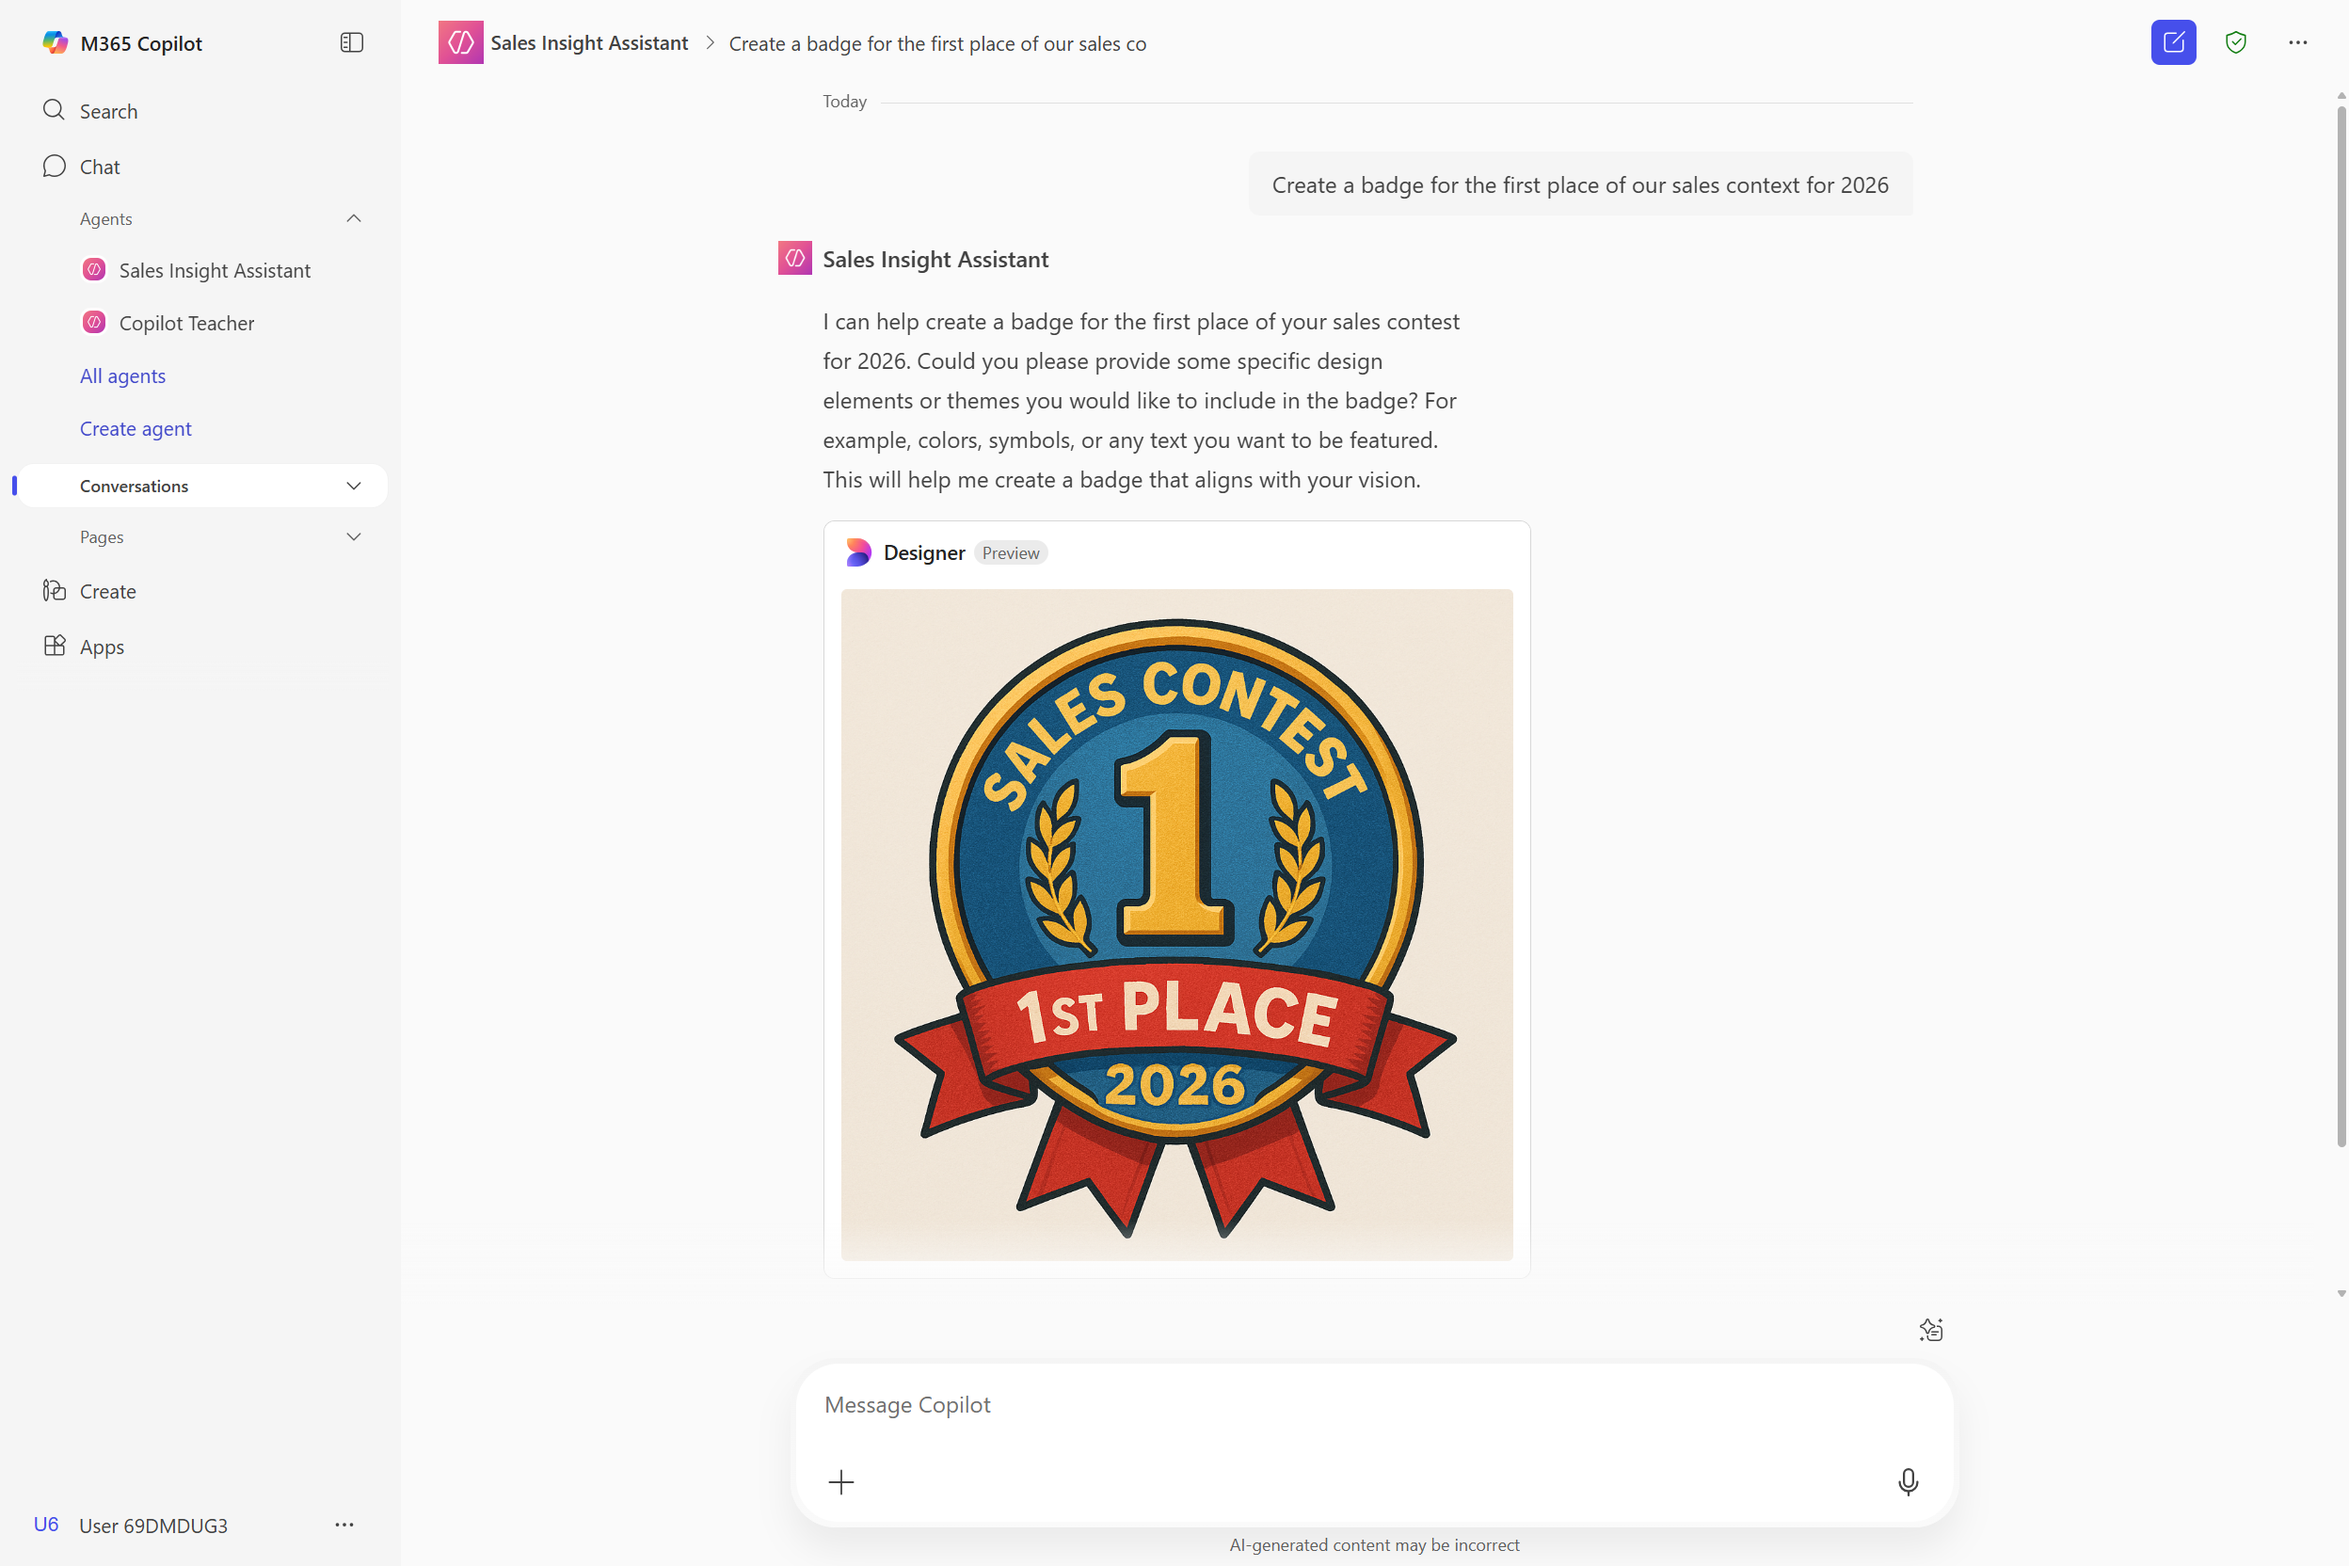
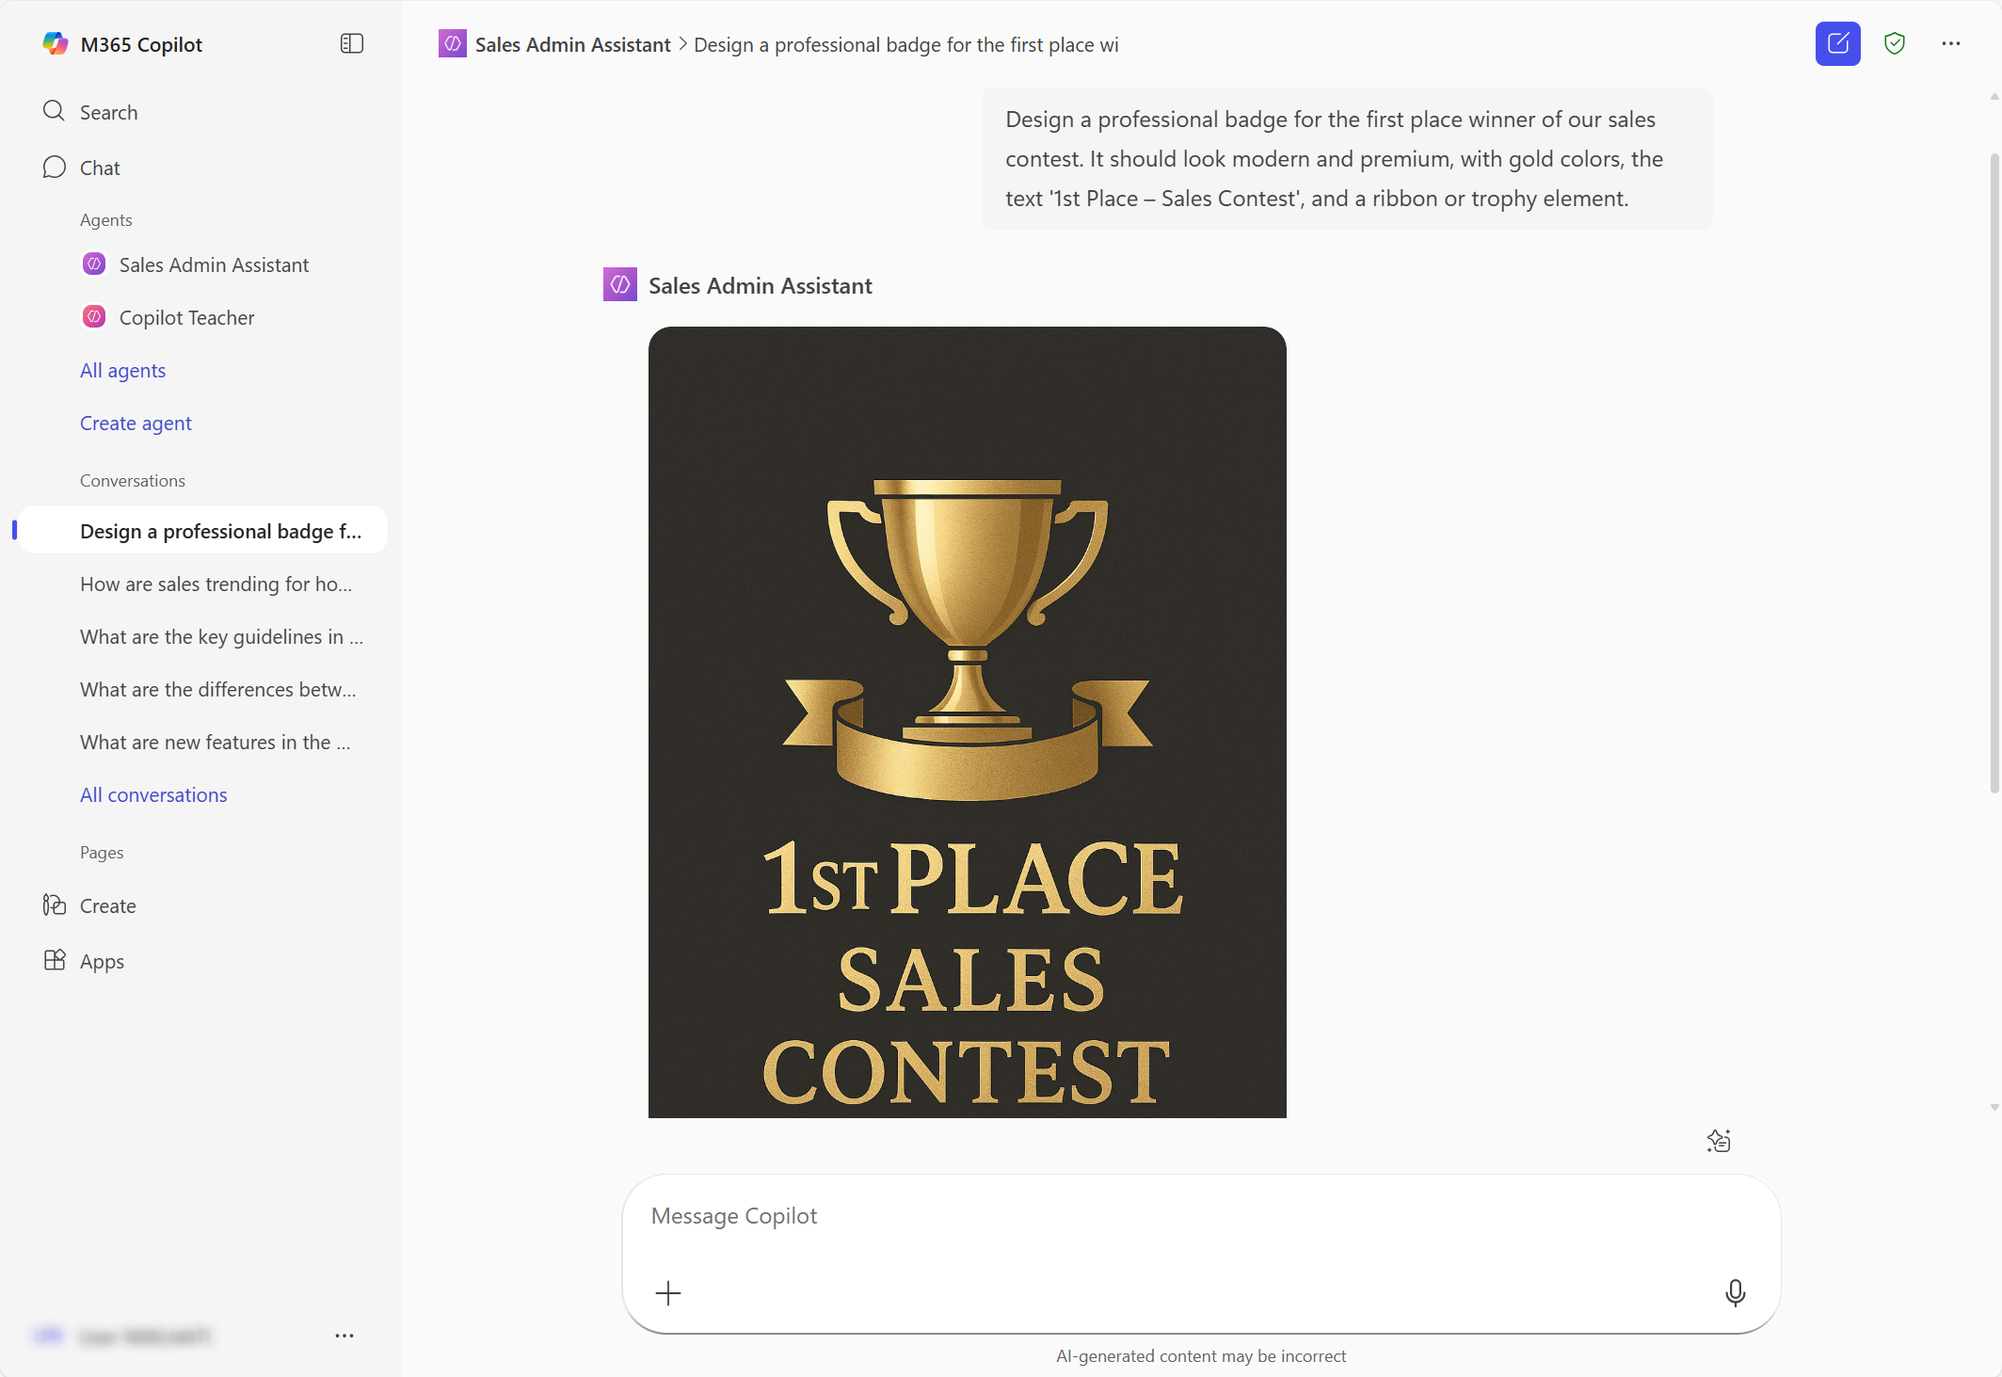
mcsline updates

diff --git a/labs/copilot-studio-lite/README.md b/labs/copilot-studio-lite/README.md
@@ -8,7 +8,7 @@ Master agent creation from basic web-grounded assistants to advanced SharePoint-
 
 | Level | Persona | Duration | Purpose |
 | ----- | ------- | -------- | ------- |
-| 100-200 | Maker (Basic to Intermediate) | 40 minutes | After completing this lab, attendees will be able to create progressively sophisticated Copilot agents, starting with simple web-based knowledge sources, advancing to SharePoint integration, and mastering advanced AI capabilities like code interpretation, data analysis, and image generation. |
+| 100-200 | Maker (Basic to Intermediate) | 30 minutes | After completing this lab, attendees will be able to create progressively sophisticated Copilot agents, starting with simple web-based knowledge sources, advancing to SharePoint integration, and mastering advanced AI capabilities like code interpretation, data analysis, and image generation. |
 
 ---
 
@@ -43,7 +43,7 @@ Think of building agents like teaching a new team member:
 - "We want AI assistance grounded in our actual business documents, not generic responses"
 - "We need professional visuals for presentations but don't have design resources"
 
-**This 40-minute investment will teach you skills you'll use repeatedly** to create agents for any department or use case.
+**This 30-minute investment will teach you skills you'll use repeatedly** to create agents for any department or use case.
 
 ---
 
@@ -62,8 +62,8 @@ The progressive approach ensures you understand core concepts before adding comp
 | Concept | Why it matters |
 |---------|----------------|
 | **Agent** | A customized digital assistant that can answer questions, retrieve information, and guide users through tasks based on configured instructions, prompts, and knowledge sources. Understanding agents is fundamental to automating knowledge work. |
-| **Microsoft 365 Copilot vs. Copilot Chat** | Microsoft 365 Copilot ($30/user/month) is grounded in your organization's data (emails, meetings, documents) while Copilot Chat uses public web data by default. Knowing which to use determines your agent's capabilities and data access. |
-| **Declarative Agent** | A simple type of Copilot agent built through instructions, prompts, and knowledge sources without coding. Perfect for most business use cases where you need to scope behavior and ground responses in specific data. |
+| **Microsoft 365 Copilot vs. Copilot Chat** | Microsoft 365 Copilot ($30/user/month) is grounded in your organization's data (emails, meetings, documents) while Copilot Chat comes for free with select [Microsoft 365, Office 365, and Microsoft Teams plans](https://learn.microsoft.com/en-us/copilot/manage#microsoft-365--chat-eligibility) and uses public web data by default. Knowing which to use determines your agent's capabilities and data access. Copilot Chat can be extended with some premium capabilities with a pay-as-you-go subscription and/or with Copilot Credits (pre-purchased capacity) |
+| **Declarative Agent** | A simple type of Copilot agent built through instructions, prompts, and knowledge sources. Perfect for most business use cases where you need to scope behavior and ground responses in specific data. |
 | **Grounding** | Anchoring agent responses to specific data sources (websites, SharePoint, files) to ensure accuracy and minimize hallucinations. This is what makes your agent trustworthy and business-ready. |
 | **Code Interpreter** | An advanced feature that writes and executes code in real-time to analyze data, generate charts, and perform calculations. Transforms your agent from information retrieval to data analysis powerhouse. |
 | **Image Generator** | AI capability that creates original images from text descriptions, useful for creating presentation visuals, badges, diagrams, and marketing materials without design skills. |
@@ -107,8 +107,8 @@ In this lab, you'll progress from basic agent creation to advanced AI capabiliti
 
 | Step | Use Case | Value added | Effort |
 |------|----------|-------------|--------|
-| 1 | [Create a web-based learning assistant](#-use-case-1-create-a-web-based-learning-assistant) | Build foundational skills by creating an instructional agent grounded in trusted documentation | 20 min |
-| 2 | [Build an advanced SharePoint-integrated sales assistant](#-use-case-2-build-an-advanced-sharepoint-integrated-sales-assistant) | Master advanced features including SharePoint integration, code interpretation, and image generation for business intelligence | 20 min |
+| 1 | [Create a web-based learning assistant](#-use-case-1-create-a-web-based-learning-assistant) | Build foundational skills by creating an instructional agent grounded in trusted documentation | 15 min |
+| 2 | [Build an advanced SharePoint-integrated sales assistant](#-use-case-2-build-an-advanced-sharepoint-integrated-sales-assistant) | Master advanced features including SharePoint integration, code interpretation, and image generation for business intelligence | 15 min |
 
 ---
 
@@ -122,7 +122,7 @@ Build your first Copilot agent that helps users learn about Microsoft Copilot ca
 
 | Use case | Value added | Estimated effort |
 |----------|-------------|------------------|
-| Create a web-based learning assistant | Build foundational skills by creating an instructional agent grounded in trusted documentation | 20 minutes |
+| Create a web-based learning assistant | Build foundational skills by creating an instructional agent grounded in trusted documentation | 15 minutes |
 
 **Summary of tasks**
 
@@ -141,7 +141,8 @@ Create, configure, and test a web-based Copilot agent that serves as a knowledge
 #### Navigate to Microsoft 365 Copilot
 
 1. Navigate to [Microsoft 365 Copilot home page](https://m365.cloud.microsoft/chat/?auth=2&home=1)  
-   _Note: if you see 'coming soon' try again in a few minutes._
+
+<!-- 
 
 > [!IMPORTANT]
 > - If the Microsoft 365 Copilot URL is `https://copilot.cloud.microsoft/` or if the Copilot pane is on the right-hand side, this means you're on the **wrong** page.
@@ -160,24 +161,29 @@ Create, configure, and test a web-based Copilot agent that serves as a knowledge
 >
 >   ![alt text](images/logged-in-user.png)
 
+ -->
+
 2. Go to the **Chat** tab.
 
 > [!TIP]  
-> Microsoft 365 Copilot and Copilot Chat are meant for internal, employee experiences – B2E (Business-to-Employee). When a user has access to both, they see a toggle in the user interface to switch between the Work (Microsoft 365 Copilot) and Web experiences (Copilot Chat).
+> Both Microsoft 365 Copilot and Copilot Chat are designed for internal, employee-facing (B2E) experiences.  
+>  
+> - Users who have **only Copilot Chat** will **not see any toggle** in the interface – this is expected.  
+> - Users who have **both** Microsoft 365 Copilot and Copilot Chat will see a **toggle** that lets them switch between the **Work** (Microsoft 365 Copilot) and **Web** (Copilot Chat) experiences.  
 >
 > ![alt text](images/m365-copilot.png)
 >  
 > **Microsoft 365 Copilot** is a per-user license ($30/user/mo.) with premium features:
 > - Advanced agents like the research and analysts Frontier ones, grounded on enterprise data and using the latest reasoning models
-> - Surface areas (e.g., integration with Office applications)
-> - Knowledge sources (e.g., your enterprise data from Outlook, Teams or SharePoint)
+> - Knowledge sources (e.g., your enterprise data from Outlook, Teams, SharePoint, or Copilot connectors)
 >  
-> **Copilot Chat** can be seen as a free enterprise equivalent to ChatGPT. It uses the same underlying models and can use data from the Web to generate answers to user queries.
+> **Copilot Chat** is the enterprise version of ChatGPT included with many Microsoft 365 licenses at no extra cost. It uses the same underlying models and can access web data to generate answers.
 > - Copilot Chat can leverage premium capabilities like organization-tenant grounding for answers when tied to a pay-as-you-go Azure subscription.
 >  
-> Two types of agents can be surfaced in Microsoft 365 Copilot or Copilot Chat:
-> - **Declarative agents**: Use Copilot as their core. They simply scope their tasks with specific instructions, pre-defined prompts, knowledge sources, and actions. Ideal for simple scoped knowledge retrieval or task-specific use-cases.
-> - **Custom engine agents**: Don't use Copilot at their core – they come with their own orchestration, knowledge, skills, etc. and they can run on a different platform than Microsoft Copilot. Ideal for more advanced or complex use-cases.
+> Two types of agents can appear in Microsoft 365 Copilot or Copilot Chat:  
+>  
+> - **Declarative agents**: These rely on Copilot’s built-in orchestration, search, and reasoning. They define their behavior through instructions, pre-defined prompts, knowledge sources, and actions. Ideal for scoped knowledge retrieval or task-specific use cases.  
+> - **Custom engine agents**: These do **not** use Copilot as their core engine. They include their own orchestration, knowledge, and skills, and may run on a different platform than Microsoft Copilot. Ideal for advanced or complex scenarios.
 
 #### Test the basic Copilot experience
 
@@ -186,19 +192,19 @@ Create, configure, and test a web-based Copilot agent that serves as a knowledge
 4. Test the basic experience by typing:
 
 ```
-Upcoming features in Microsoft Copilot Studio roadmap
+What are new features in the Microsoft Copilot Studio roadmap?
 ```
 
 ![alt text](images/simple-copilot-search.png)
 
-5. Select **Start a new chat** to reset.
+5. Select **Start a new chat** (top right icon) to reset. Notice how your history of converations is saved on the left-hand side.
 
 #### Create your learning assistant agent
 
 6. On the side pane, expand **Agents** and select **Create agent**  
 
 > [!TIP]  
-> If you don't see **Create agent**, try refreshing with Ctrl + F5. Your user account may still be provisioning services.
+> If you don't see **Create agent**, try refreshing with Ctrl + F5.
 
 7. Notice that you can explore existing **templates**. But for this lab, when prompted to **describe the agent**, reply with:
 
@@ -254,10 +260,16 @@ Yes, add https://learn.microsoft.com/en-us/microsoft-365-copilot/ and https://le
 What are the differences between Microsoft 365 Copilot and Copilot Chat?
 ```
 
+<!-- 
+
 > [!TIP]
 > If your training tenant is getting throttled because of lack of AI capacity (to prioritize production workloads), you may see a message like this: `Sorry, I wasn't able to respond to that. Is there something else I can help with?`. It's OK, **just test your agent while configuring it**, and not after you created it. You may try again later.
 >
 > ![alt text](images/copilot-error.png)
+
+ -->
+
+![alt text](images/declarative-agent-test.png)
 
 > [!IMPORTANT]  
 > If you need to update a declarative agent, select `...` next to the agent name and select **Edit**, or go to **Create agent** then navigate to **My agents** in the breadcrumbs.
@@ -323,6 +335,8 @@ Build a sophisticated Sales Admin Assistant that integrates organizational data 
 > [!IMPORTANT]
 > The URL of the SharePoint site is available in **Lab Resources** (specific per training).
 
+![alt text](images/sales-docs.png)
+
 2. Locate the following sample files:
    - **Sales Excel file**: A spreadsheet containing sales data with columns for dates, product lines, revenue, and quarters
    - **Sales policy document**: A Word document containing sales policies, procedures, and guidelines
@@ -361,6 +375,8 @@ You are a Sales Admin Assistant. Your job is to help sales managers track revenu
     - Select both the **Sales Policy Document** and **Sales Excel** file
     - You will see them being added as SharePoint documents
   
+![alt text](images/add-files.png)
+
 > [!TIP]
 > - If you can't see the files you just opened, an alternative approach is to **paste** and **add** the SharePoint URL of the Sales folder.
 > - Another alternative approach is to **download** the files locally and **upload** them to your agent.
@@ -371,13 +387,18 @@ You are a Sales Admin Assistant. Your job is to help sales managers track revenu
     - **Code interpreter** (for data analysis and chart generation)
     - **Image generator** (for creating visual content)
 
-> [!TIP]
-> Notice how you can also explore additional **knowledge** capabilities:
-> - All **Websites** (or specific websites)
-> - All **SharePoint** data (or specific files or sites)
-> - All **Teams** data (or data from specific group chats, meetings, or channels)
-> - Your **Emails**
-> - Knowledge sources enabled by your organization at the tenant level, through **Copilot Connectors** (e.g., ServiceNow)
+![alt text](images/configured-sources-and-settings.png)
+
+> [!TIP]  
+> You can explore additional **knowledge** capabilities:  
+> - All **websites** (or specific ones)  
+> - All **SharePoint** data (or specific files or sites)  
+> - Organization-wide knowledge sources enabled through **Copilot Connectors** (e.g., ServiceNow)  
+>  
+> If your account has a **Microsoft 365 Copilot** license, you can also access:  
+> - **My Teams chats and meetings**  
+> - **My emails**
+
 
 #### Finalize and create
 
@@ -400,6 +421,8 @@ What are the key guidelines in our sales policy regarding customer discounts?
 
 16. Verify the agent references your SharePoint policy document and provides accurate information.
 
+![alt text](images/sales-policy-question.png)
+
 #### Test code interpreter with data analysis
 
 17. **Start a new chat** and test the **code interpreter** capability with a data analysis request:
@@ -412,8 +435,6 @@ How are sales trending for home appliances?
 
 ![alt text](images/sales-data-analysis.png)
 
-![alt text](images/code-interpreter.png)
-
 19. **Observe** how the agent:
     - Accesses your Excel data
     - Uses code interpreter to process the data
@@ -425,7 +446,7 @@ How are sales trending for home appliances?
 20. **Start a new chat** and test the **image generation** capability with a relevant request:
 
 ```
-Design a professional badge for the first place winner of our 2026 sales contest. It should look modern and premium, with gold colors, the text '1st Place – Sales Contest 2026', and a ribbon or trophy element.
+Design a professional badge for the first place winner of our sales contest. It should look modern and premium, with gold colors, the text '1st Place – Sales Contest', and a ribbon or trophy element.
 ```
 
 ![alt text](images/image-generator.png)
